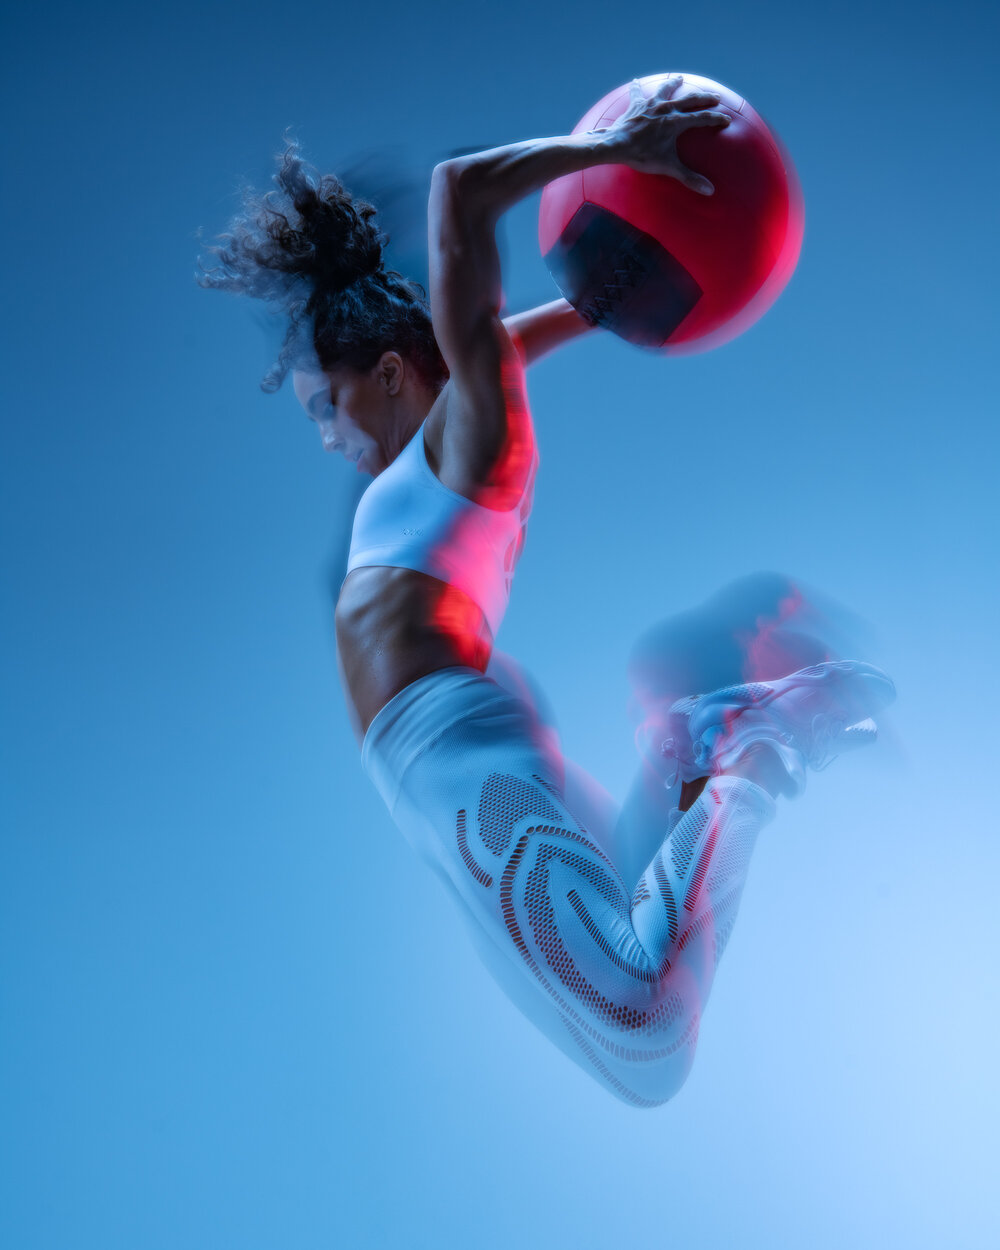
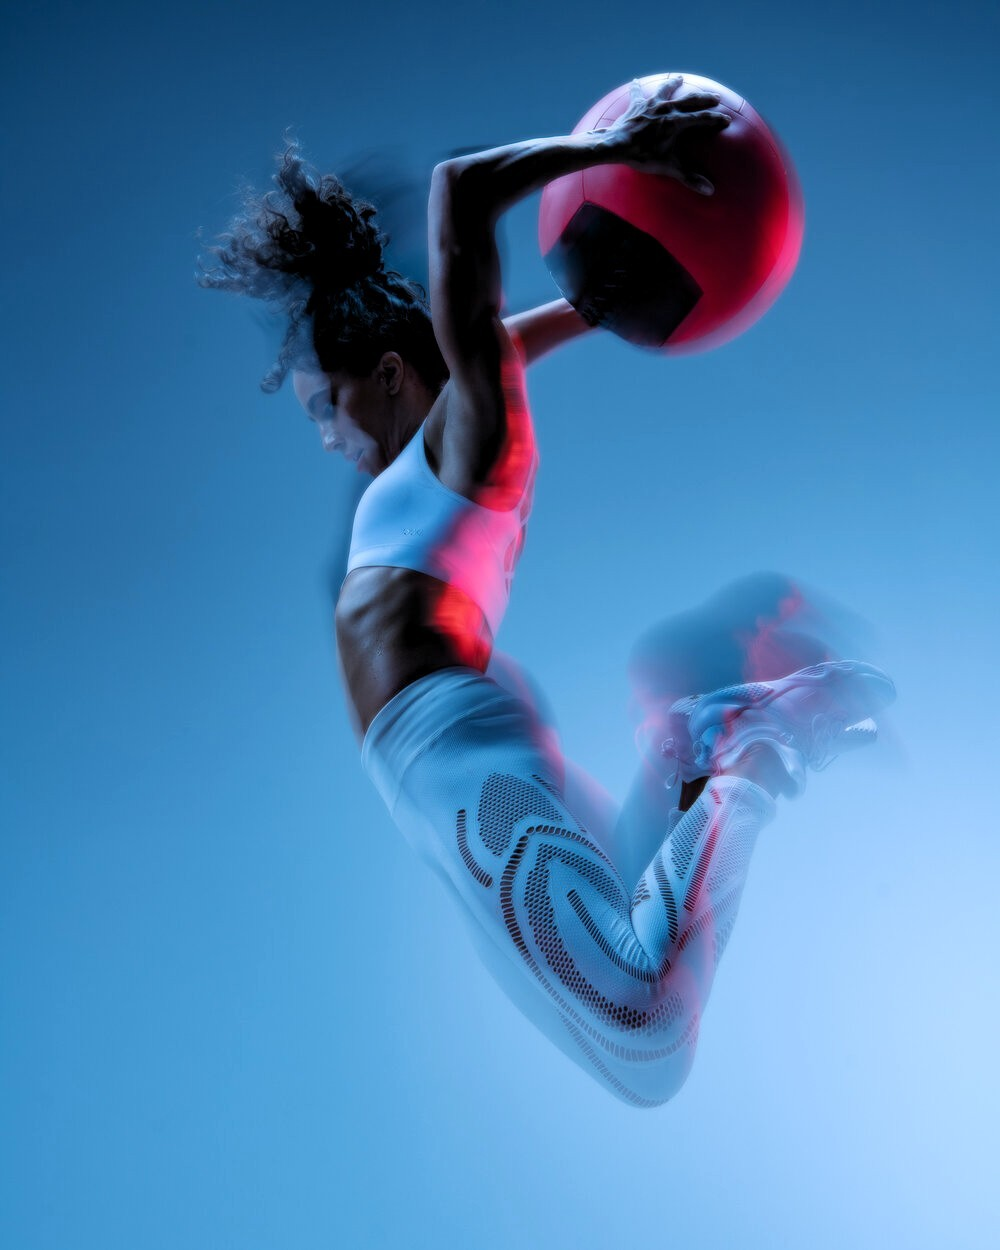
complete my nav bar

Changed region(s): [[0.248, 0.0624, 0.775, 0.4056], [0.434, 0.624, 0.713, 0.8424], [0.341, 0.4368, 0.496, 0.5928]]

diff --git a/index.html b/index.html
@@ -1,15 +1,87 @@
 <!DOCTYPE html>
 <html lang="en">
+
 <head>
     <meta charset="UTF-8">
     <meta http-equiv="X-UA-Compatible" content="IE=edge">
     <meta name="viewport" content="width=device-width, initial-scale=1.0">
     <title>Rays Fitness site</title>
     <link rel="stylesheet" href="Assets/css/style.css">
+    <link rel="preconnect" href="https://fonts.googleapis.com">
+    <link rel="preconnect" href="https://fonts.gstatic.com" crossorigin>
+    <link href="https://fonts.googleapis.com/css2?family=Lobster&display=swap" rel="stylesheet">
 </head>
+
 <body>
-    <div class ="background-image">
-        <nav></nav>
-    </div>
+    <div class="background-image">
+        <nav>
+            <span id="logo">&#9650RaysFitnessTracker</span>
+            <ul class="buttons">
+                <li class="list">
+                    <a class="details" href="#">About</a>
+                </li>
+                <li class="list">
+                    <a class="details" href="#">BMI</a>
+                </li>
+                <li class="list">
+                    <a class="details" href="#">Caloric Needs</a>
+                </li>
+                <li class="list">
+                    <a class="details" href="#">Exercise Guide</a>
+                </li>
+            </ul>
+            <a id="contacts" href="#"> <button><b>Contact Us</b></button></a>
+        </nav>
+        <p id="nolimit">
+            <span id="lim"><b>THERE IS NO LIMIT !</b></span> <br> <br>
+            <span id="cap">You're capable of more than you realize.
+                Rise Up.</span>
+        </p>
+        <br>
+        <br>
+        <p id="desc">
+            <span id="about">About</span> <br> <br>
+            RaysFitnessTracker is here to help you keep track of your BMI, Caloric needs <br> depending on your set
+            goals. Learn more about your daily calorie intake,<br> what needs to
+            change in line with your goals. <br> <br> <span id="health"><b>Your body's health is your wealth</b> </span>
+        </p>
+        <br>
+        <br>
+        <div id="bcolor">
+            <br>
+            <br>
+            <!--BMI Calculator-->
+            <section id="bmi-calculator" class="page page-light">
+                <h1 class="h1">BODY MASS INDEX (BMI)</h1><br />
+                <p>Body mass index (BMI) is a measure of body fat based on height and weight that applies <br> to adult men
+                    and
+                    women.
+                    Calculate your BMI to determine your goal. </p><br />
+                <br />
+                <h1 class="h1">BMI Calculator</h1>
+                <div class="container">
+                    <form id="bmi-form">
+                        <label for="bmi-height">Your Height:</label><br />
+                        <input type="text" id="bmi-height" placeholder="Centimeters" /><br />
+                        <label for="bmi-weight">Your Weight:</label><br />
+                        <input type="text" id="bmi-weight" placeholder="Kilograms" /><br /><br />
+                        <span id="bmi-submit" class="btn btn-blue">Submit</span>
+                    </form>
+
+                    <div class="list-box">
+                        <h4 id="bmi-result">YOUR BMI = [Not Entered]</h4><br />
+                        <h3>BMI Categories:</h3>
+                        <ul>
+                            <li>Underweight: BMI &lt; 18.5 (Gain weight)</li>
+                            <li>Normal weight: 18.5 &lt; BMI &lt; 24.9 (Maintain)</li>
+                            <li>Overweight: BMI &gt; 24.9 (Loss weight)</li>
+                        </ul>
+                    </div>
+                </div>
+            </section>
+
+        </div>
+
 </body>
+
 </html>

diff --git a/Assets/css/style.css b/Assets/css/style.css
@@ -1,18 +1,119 @@
+* {
+  box-sizing: border-box;
+  margin: 0;
+  padding: 0;
+}
 .background-image {
-    background-image: url(../images/fitness-66.jpg);
-    width: 80%;
-    height: 1700px;
-    background-position: center;
-    background-size: cover;
-    background-repeat: no-repeat;
-    margin-left: 10%;
-    border-radius: 15%;
-    margin-top: 2%;
+  background-image: url(../images/Renamer.jpg);
+  width: 100%;
+  height: 1300px;
+  background-position: center;
+  background-size: cover;
+  background-repeat: no-repeat;
 }
 
-.material-symbols-outlined {
+#logo {
+  margin-top: 1%;
+  font-size: 100px;
+  padding-left: 1%;
   color: white;
-  margin-top: 11%;
-  margin-left: 5%;
-  icon-
+  font-family: "Lobster", cursive;
+  text-shadow: 2px 2px 3px black;
+  cursor: pointer;
+}
+
+nav {
+    display: flex;
+    justify-content: space-between;
+    align-items: center;
+    padding: 50px, 10%;
+    margin-right: 5%;
+}
+nav li a {
+    transition: all 0.3s ease 0s;
+}
+nav li a:hover {
+    color: rgb(159, 212, 234);
+}
+.buttons {
+    list-style-type: none;
+    display: flex;
+}
+
+button {
+    padding: 9px 25px;
+    background-color: rgb(135, 175, 220);
+    color: white;
+    border: none;
+    border-radius: 50px;
+    font-size: 20px;
+    transition: all 0.3s ease 0s;
+}
+button:hover {
+    background-color: rgb(6, 99, 120);
+}
+.details {
+    color: white;
+    font-size: 30px;
+    font-weight: 700;
+    font-family: "Dancing Script", cursive;
+    text-decoration: none;
+    padding: 0px 20px;
+    
+  }
+#nolimit {
+  color: whitesmoke;
+  font-size: 50px;
+  margin-top: 10%;
+  margin-left:25%; 
+  font-weight: 600;
+}
+#desc {
+  color: whitesmoke;
+  font-size: 50px;
+  margin-left:20%;
+}
+#about {
+  font-size: 60px;
+  margin-left: 30%;
+  font-weight: 600;
+}
+#lim {
+    font-size: 100px;
+    color: white;
+    margin-left: 5%; 
+}
+#cap {
+    margin-left: 5%;
+}
+#health {
+  margin-left: 15%;
+}
+form {
+  background: #191a1d;
+  color: #d9d9d9;
+  padding: 1rem 0.5rem 2rem 0.5rem;
+  text-align: center;
+  margin: 2rem;
+  border-radius: 32px;
+  width: 35%;
+  box-shadow: 0 0 3px #000000;
+}
+#bmi-calculator {
+  margin-left: 25%;
+  margin-top: 15%;
+  color: whitesmoke;
+  font-size: 30px;
+  font-weight: 800;
+}
+#bcolor {
+  background-image: url(../images/e25796f3cf1648f4a22815b6625560f9.jpg);
+  width: 50%;
+  height: 1300px;
+  background-position: center;
+  background-size: cover;
+  background-repeat: no-repeat;
+  margin-top: 6%;
+  margin-left: 1%;
+  border-radius: 90%;
 }
